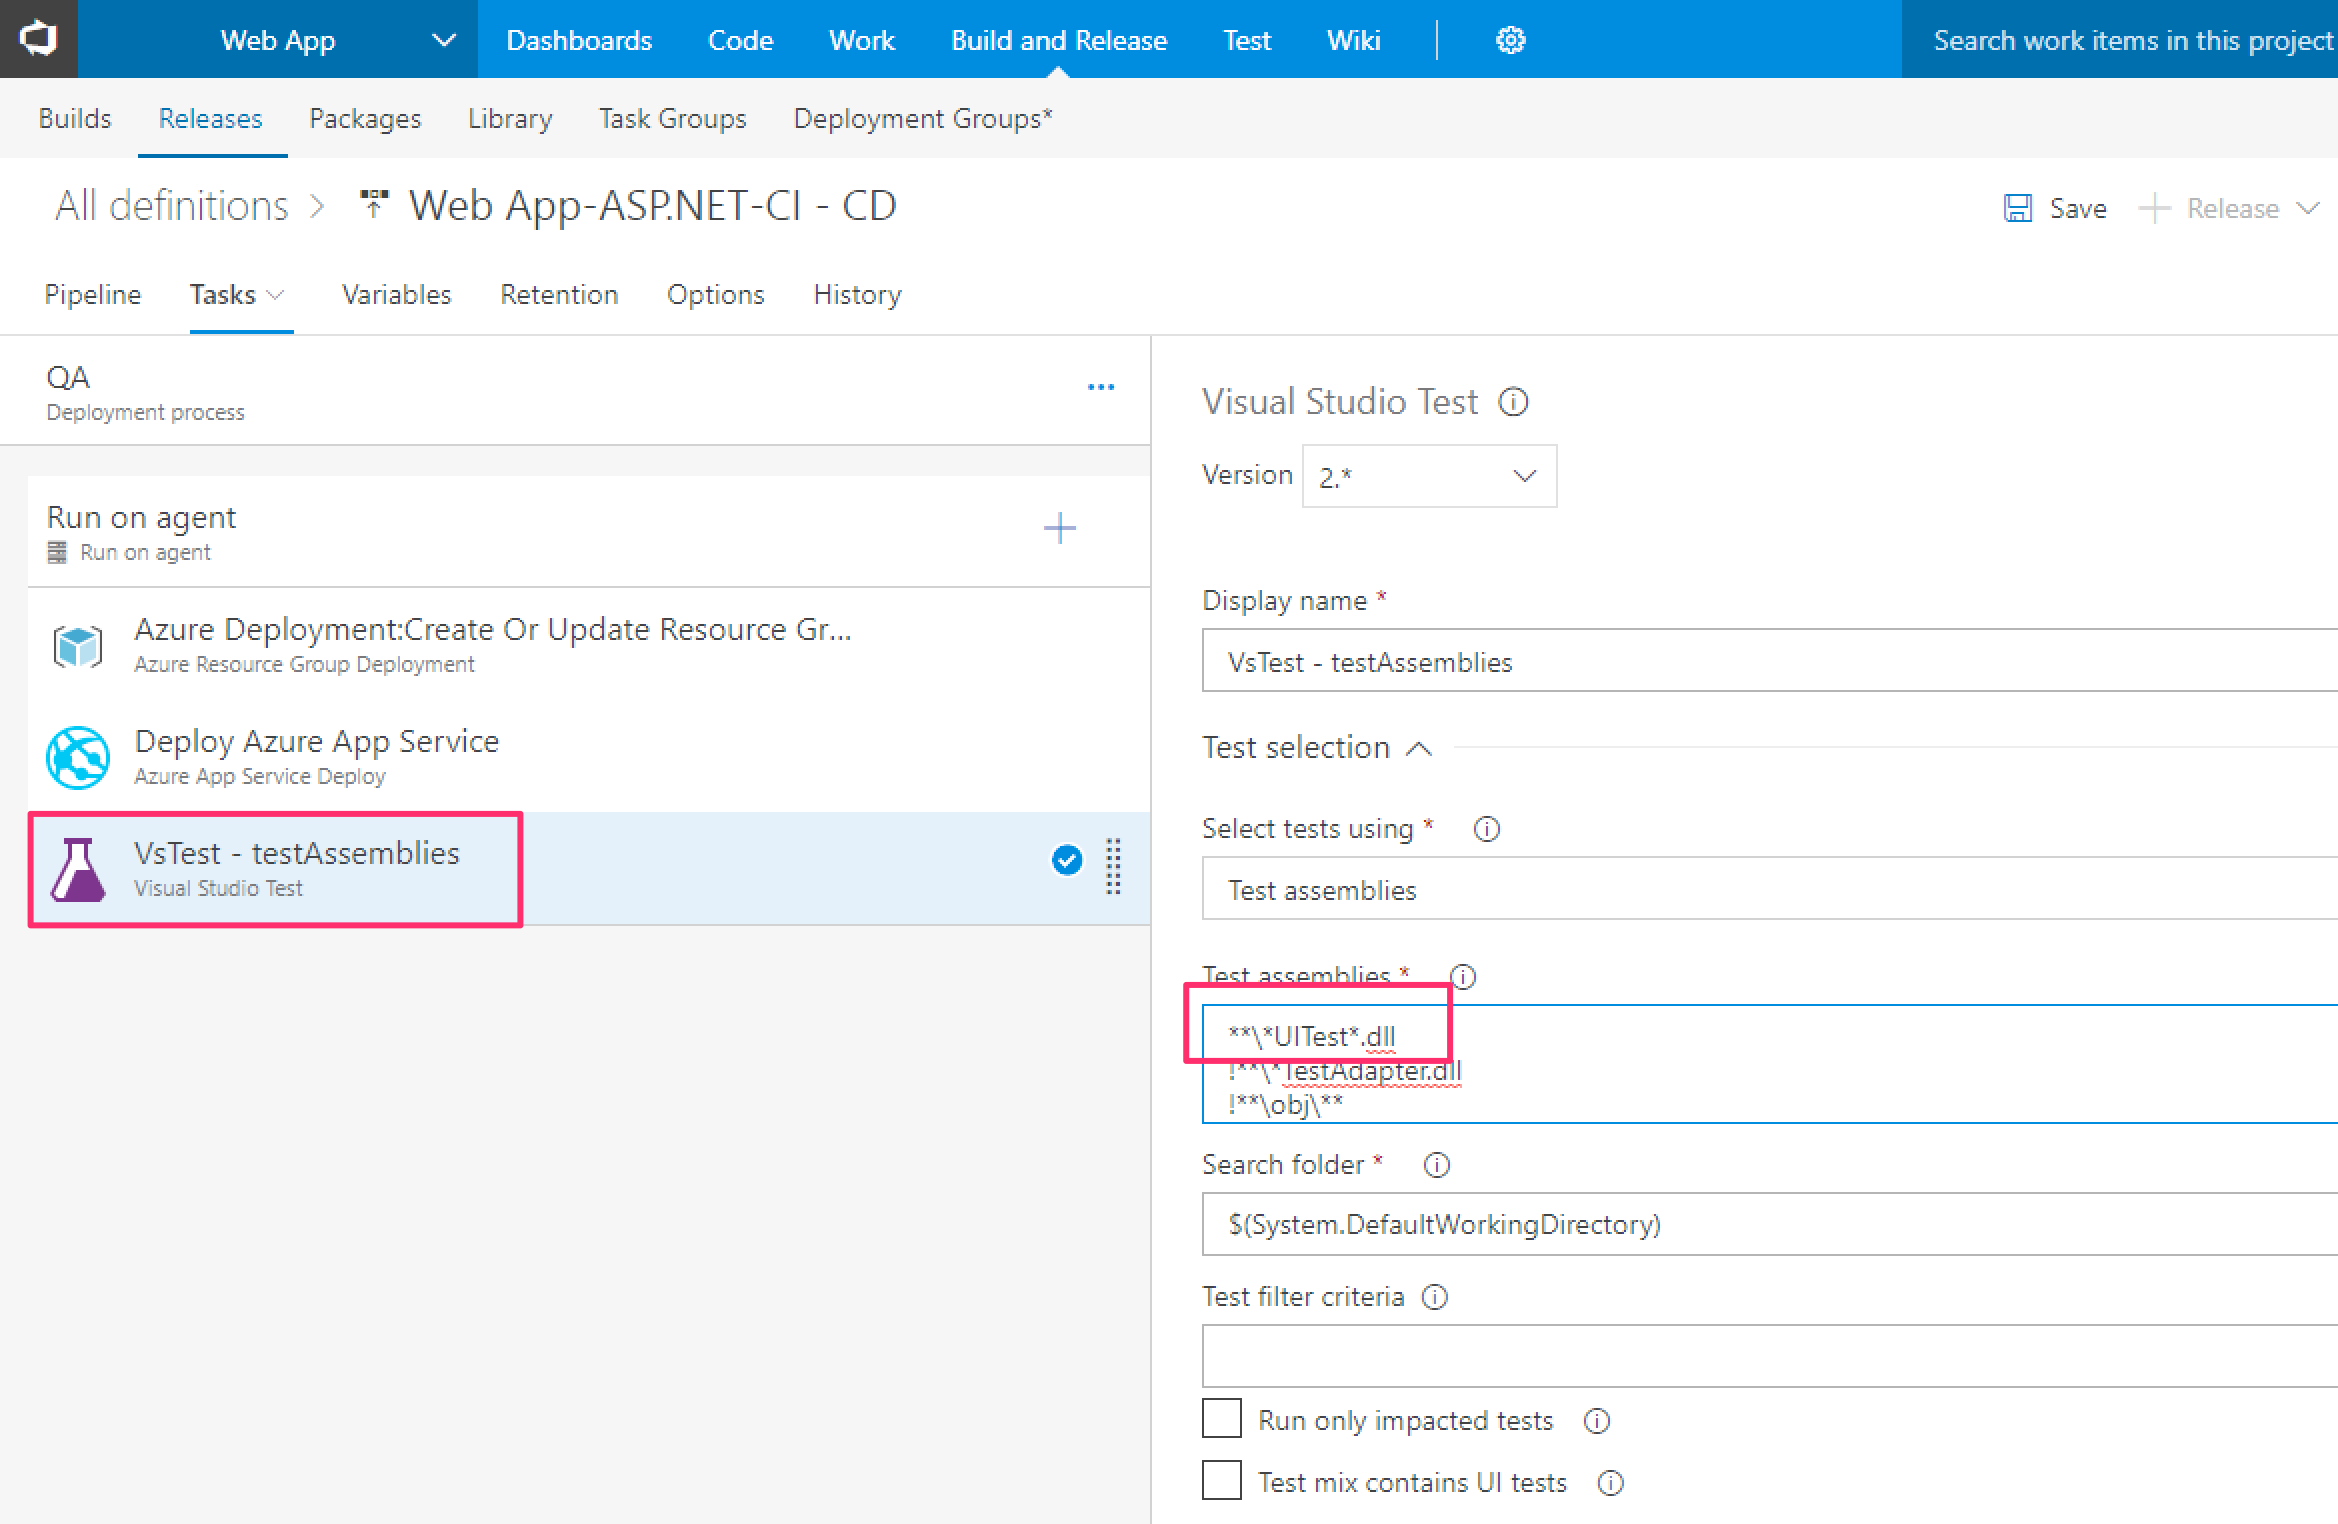
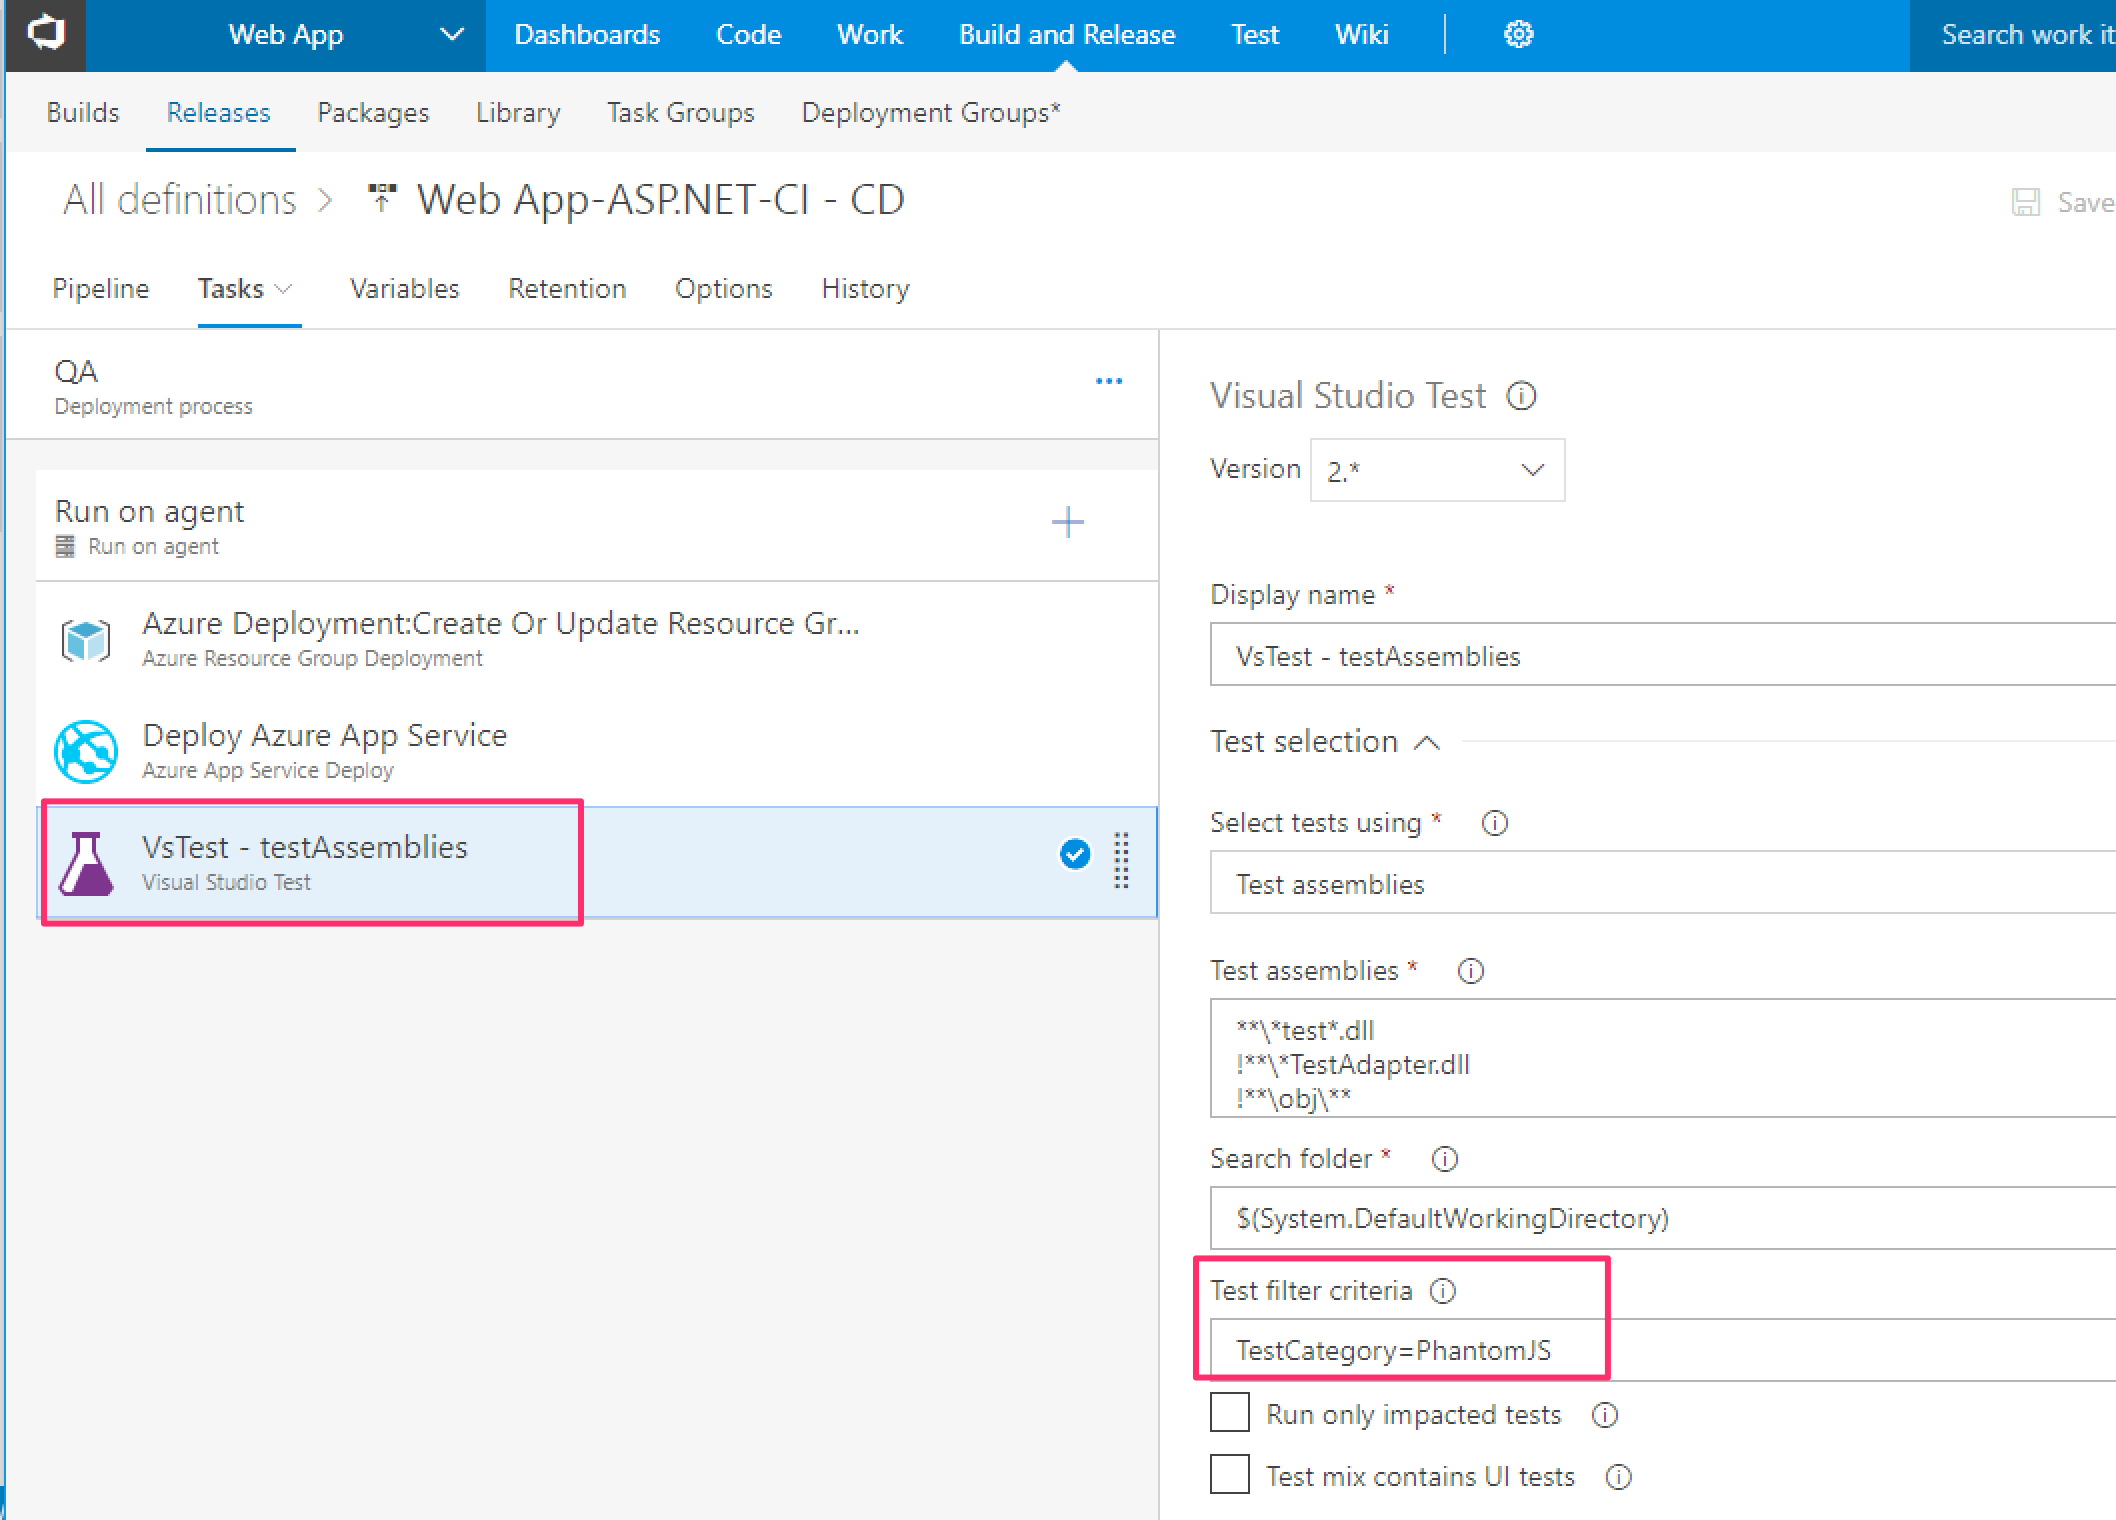
Lab 7 amends

diff --git a/README.md b/README.md
@@ -391,7 +391,7 @@ using OpenQA.Selenium.PhantomJS;
 namespace WebApp.UITest
 {
     [TestClass]
-    public class ChromeTests
+    public class UITests
     {
         private static RemoteWebDriver _webDriver = null;
         private static string _webAppBaseURL;
@@ -511,6 +511,7 @@ namespace WebApp.UITest
     ```c
     string expectedTitle = "Another New Title";
     ```
+    - The [TestCategory] properties which will be used later.
 
 7. Save all files.
 
@@ -529,12 +530,12 @@ You now have some Selenium tests in the project. Before committing these to sour
     - Target Folder: $(build.artifactstagingdirectory)
 <img src="images/S_5.png" width="624"/>
 
-4. Move the Copy Files task to be after the Build solution task and save (but not queue) the build. The tests will now be available in the build output. The next step is to execute the tests in the release.
+4. Move the Copy Files task to be after the Build solution task and save (but not queue) the build. The tests will now be available in the build output the next time the build runs. The next step is to execute the tests in the release.
 
 5. Open the Release definition (Build and Release | Releases | Edit) and click on the tasks for the QA environment. Click the + button, select the Test tab and select the Visual Studio Test task. The Selenium tests are within a unit test so this task can execute them.
 <img src="images/S_6.png" width="624"/>
 
-6. Select the test task and edit the Test assemblies to only run the UI Tests and not any test (e.g. unit tests) that have test in their name. In this example the project was called WebApp.UITest so \*\*\\*UITest\*.dll will only find those assemblies. If you chose a different name adjust this as appropriate.  
+6. Select the test task. In the Test filter criteria field add TestCategory=PhantomJS. This will only execute tests that have the matching [TestCategory] property in the code provides control over which tests to run. 
 <img src="images/S_7.png" width="624"/>
 
 7. Ensure the test task is the last task and save the release.
@@ -542,7 +543,7 @@ You now have some Selenium tests in the project. Before committing these to sour
 8. Now return to Visual Studio and commit and push the changes. This will trigger the CI build, which will now include the tests in the output, and then trigger the CD release, which will execute the tests found in the build output. Wait for the build and release into QA to complete and then open the release summary. You should see that there are tests in the QA environment and that they have passed.
 <img src="images/S_8.png" width="624"/>
 
-9. Click on the 100% pass link for the QA environment and you will see the indiviual test results. By default the view is filtered to only show failed tests, select All outcomes to see the tests.
+9. Click on the 100% pass link for the QA environment and you will see the individual test results. By default the view is filtered to only show failed tests, select All outcomes to see the tests.
 <img src="images/S_9.png" width="624"/>
 
 You now have automated UI tests being executed everytime a new version of your application is deployed.
